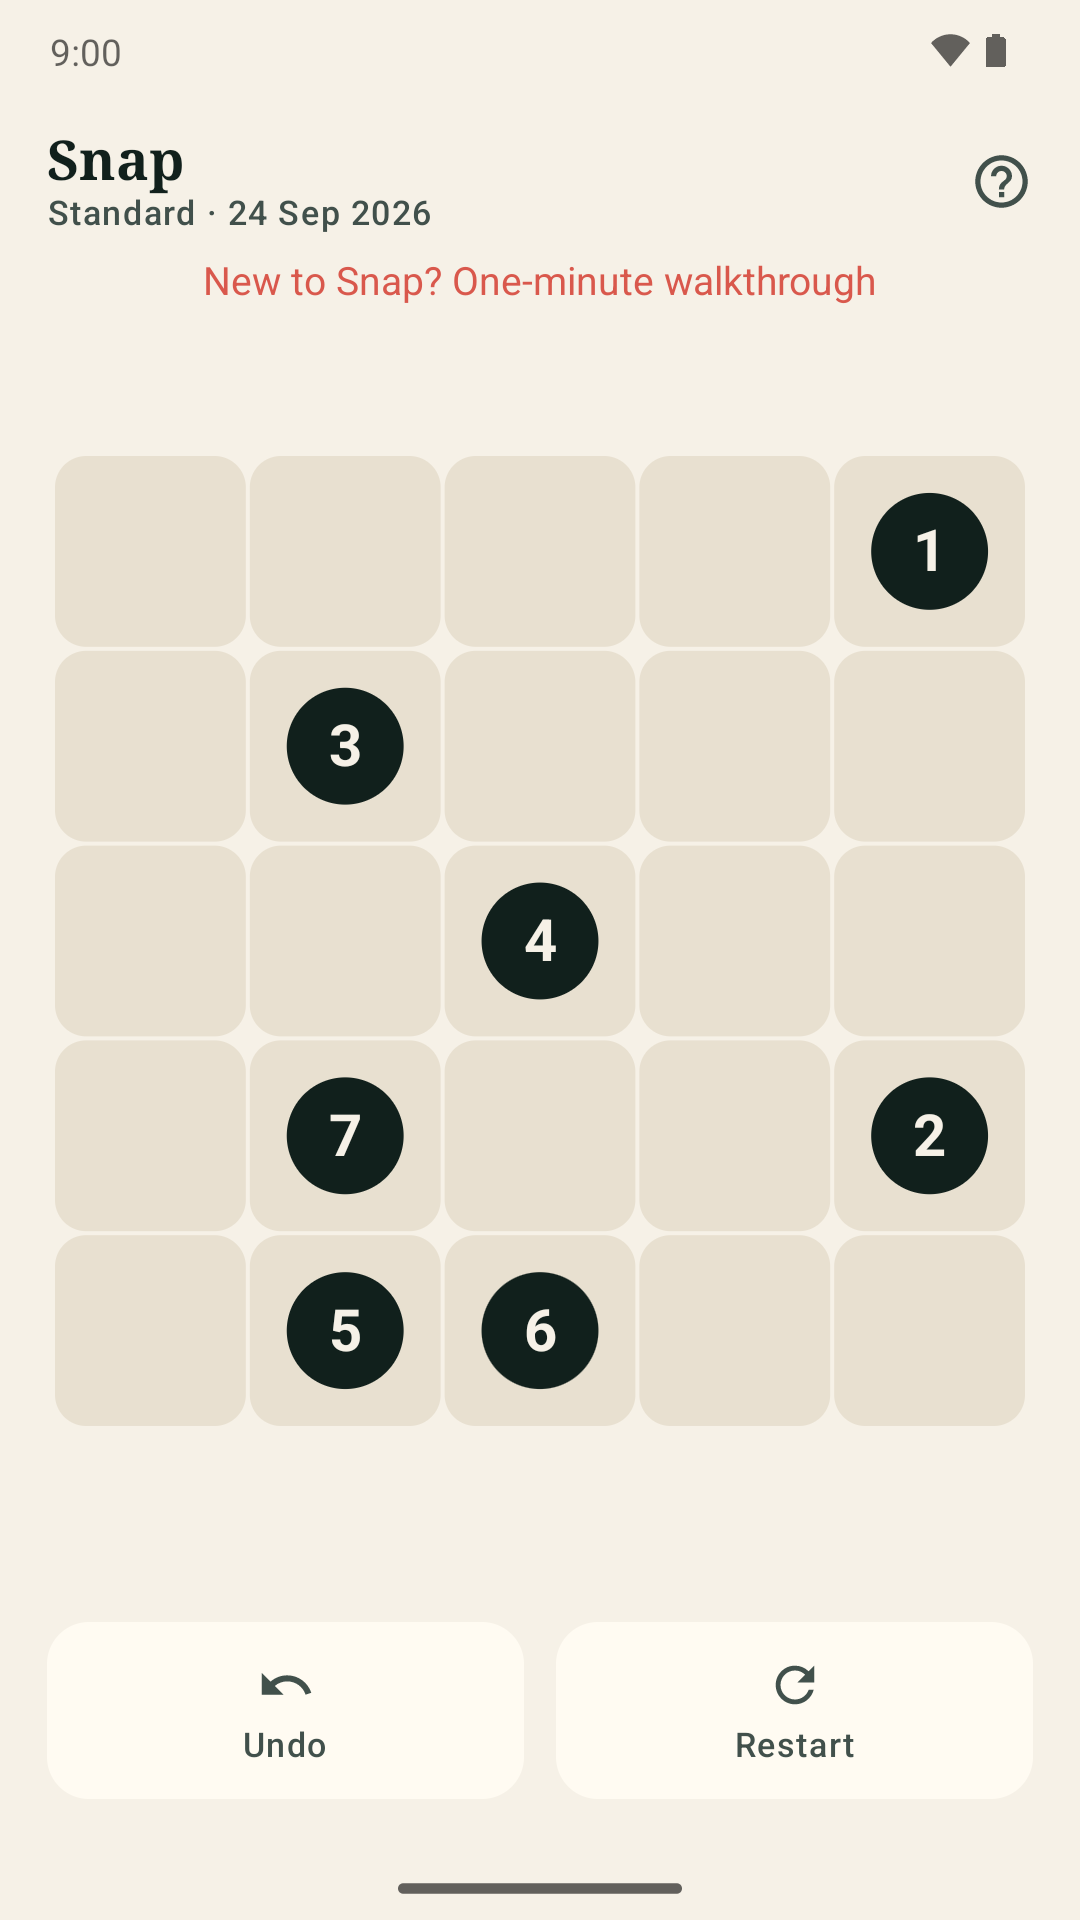
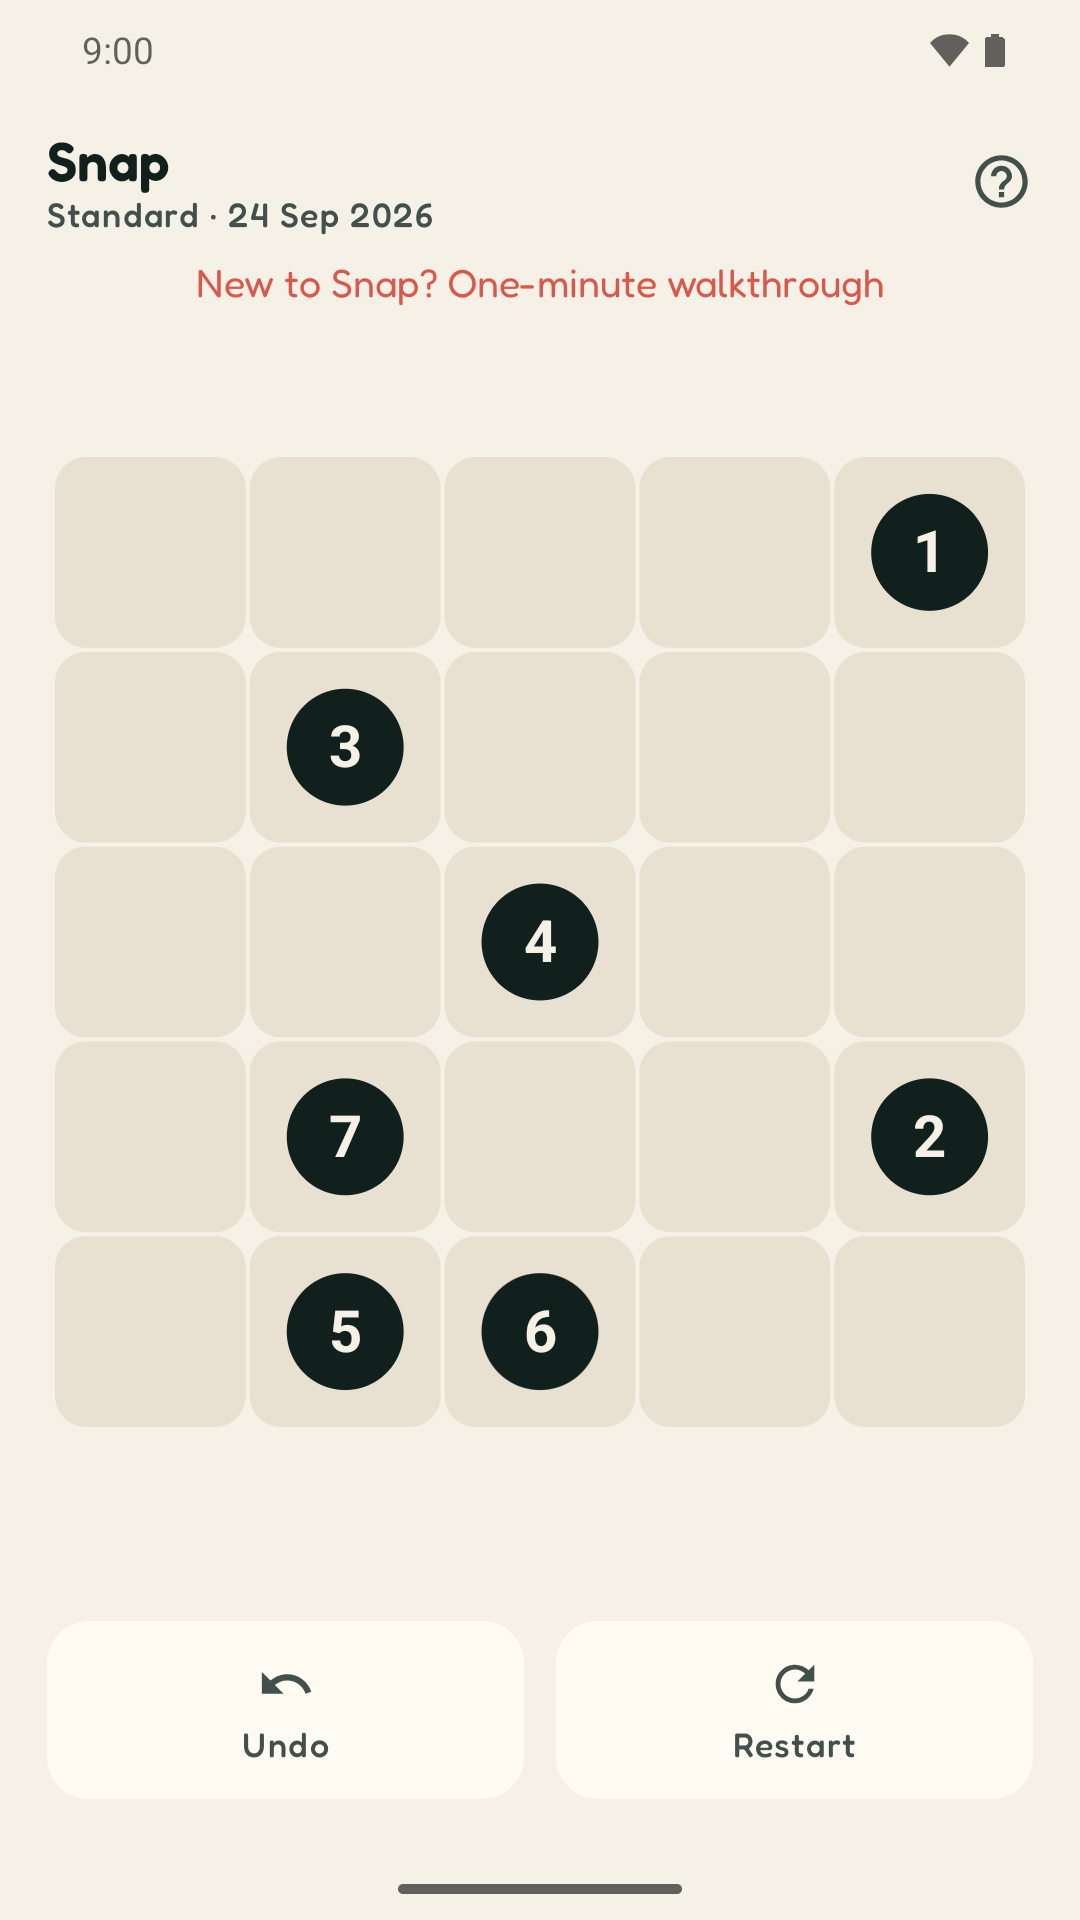
Recapture store/README screenshots and feature graphic in Fredoka; settle Fredoka TODO

diff --git a/docs/social-preview/make.py b/docs/social-preview/make.py
@@ -9,7 +9,7 @@
       by 0.8 and cropped 6px top and bottom; Play rejects an alpha channel, so it is saved as RGB).
 All three are committed; rerun this after changing the wording or the icon.
 
-Needs Pillow. Title uses the serif already bundled for the web build; the tagline uses DejaVu Sans
+Needs Pillow. Title uses Fredoka Bold, the app's typeface; the tagline uses DejaVu Sans
 (any sans will do if that is missing).
 Run from the repository root:  python3 docs/social-preview/make.py
 """
@@ -18,7 +18,7 @@ from PIL import Image, ImageDraw, ImageFont
 
 ROOT = Path(__file__).resolve().parents[2]
 ICON = ROOT / "android" / "play-icon-512.png"
-SERIF = ROOT / "web/src/wasmJsMain/composeResources/font/noto_serif_bold.ttf"
+SERIF = ROOT / "app/src/main/res/font/fredoka_bold.ttf"
 SANS_CANDIDATES = [
     "/usr/share/fonts/truetype/dejavu/DejaVuSans.ttf",
     "/Library/Fonts/Arial.ttf",

diff --git a/docs/TODO.md b/docs/TODO.md
@@ -19,11 +19,11 @@ from a measurement or review, so you can check it is still true.
   cannot operate them. Knowingly deferred while sideloaded; becomes real the day this reaches a store
   or another user. *L.* (`CLAUDE.md`, "Settled")
 
-- [ ] **Fredoka follow-ups.** README/Play/F-Droid screenshots (`docs/screenshots/`, `fastlane/metadata/`) still show the
-  old serif and need recapturing on the emulator (clean install, date pinned). Settings and Stats were not rendered
-  with Fredoka (the harness cannot open them); look at both on Android and the web. Board glyphs drawn with their own
-  `TextStyle` (Sudoku, Snap, Nonogram, Atoms, ...) name no family and stay the default font: decide whether they
-  should be Fredoka too (it would move digit metrics inside cells).
+- [ ] **Fredoka: board glyphs, decide.** Canvas-drawn numerals (Sudoku, Snap, Nonogram, Atoms, Mosaic, ...) are drawn with
+  a bare `TextStyle` that names no family, yet on both builds they already render in Fredoka (digit shapes match the UI
+  text; seen in the 2026-10 recapture, Android and Chromium). Recommendation: leave them, and if one needs pinning, do it
+  where the shared `TextMeasurer` is made rather than per board. Confirm in WebKit before closing this. Settings and
+  Statistics were checked on Android and the web in Fredoka and are fine.
 - [ ] **Mate: listing and small polish.** Add the Play/F-Droid listing text (`docs/play/LISTING.md`, `fastlane/metadata/`). The hint
   popover can cover the rank under it (on a flipped Expert board it hid the player's king); the promotion button's glow ring is clipped
   at the rounded corners; the home grid's fifth row (where Mate sits) needs a scroll. Not yet exercised: a promotion that is a later
@@ -201,5 +201,3 @@ not demand thought, against the owner's stated taste.
   8. Acceptance for the whole thing: every board shows at least two non-grey, non-accent hues in both schemes; dark
      fills stay clear of the surface; no hex literal for content colour outside the helper; `PUZZLE_STANDARDS.md`
      checklist gets a "content hues from the helper" row so new puzzles start compliant.
-
-- **Home screenshot may be stale.** Today's pick now has a gold sparkle frame and "Try me!" over its thumbnail (was a star); recapture `docs/screenshots/` home shot in the next pass that recaptures them.

diff --git a/README.md b/README.md
@@ -9,7 +9,7 @@ No ads. No subscription. No accounts. No network permission in the manifest at a
 
 | Every puzzle, every day | Sudoku | Mosaic | Snap |
 |---|---|---|---|
-| ![The home screen, showing every puzzle for today](docs/screenshots/home.png) | ![A Sudoku board](docs/screenshots/sudoku.png) | ![A Mosaic board](docs/screenshots/mosaic.png) | ![A Snap board](docs/screenshots/snap.png) |
+| ![The home screen: all sixteen puzzles for today, the first nine in view](docs/screenshots/home.png) | ![A Sudoku board with a hint open](docs/screenshots/sudoku.png) | ![A Mosaic board](docs/screenshots/mosaic.png) | ![A Snap board](docs/screenshots/snap.png) |
 
 ## Install it
 
